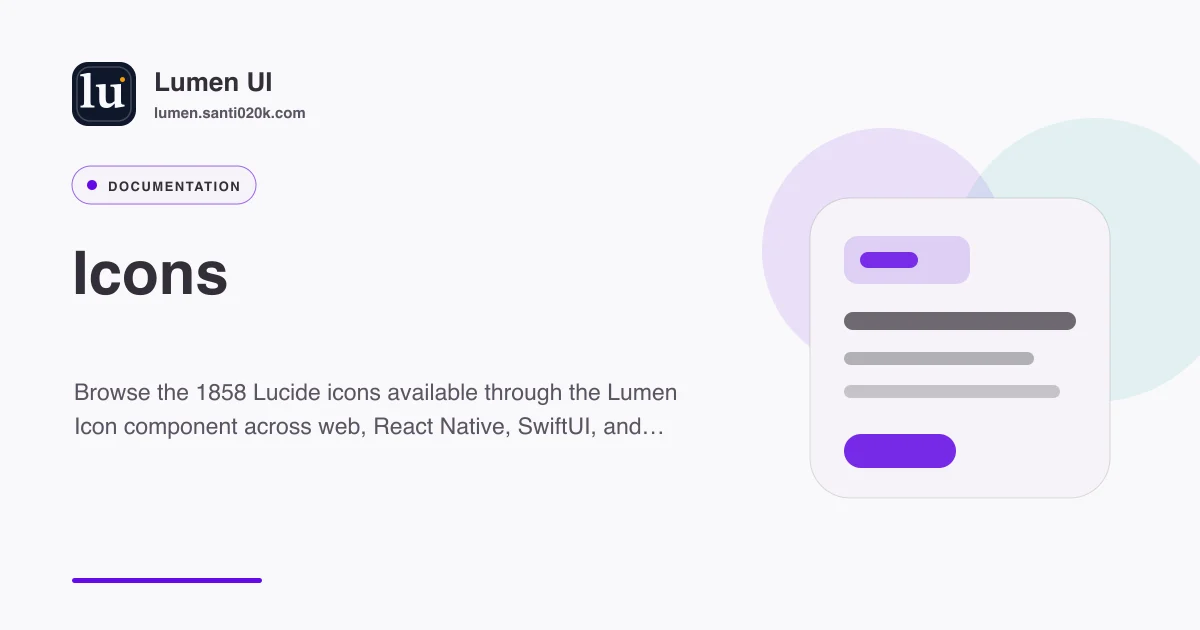
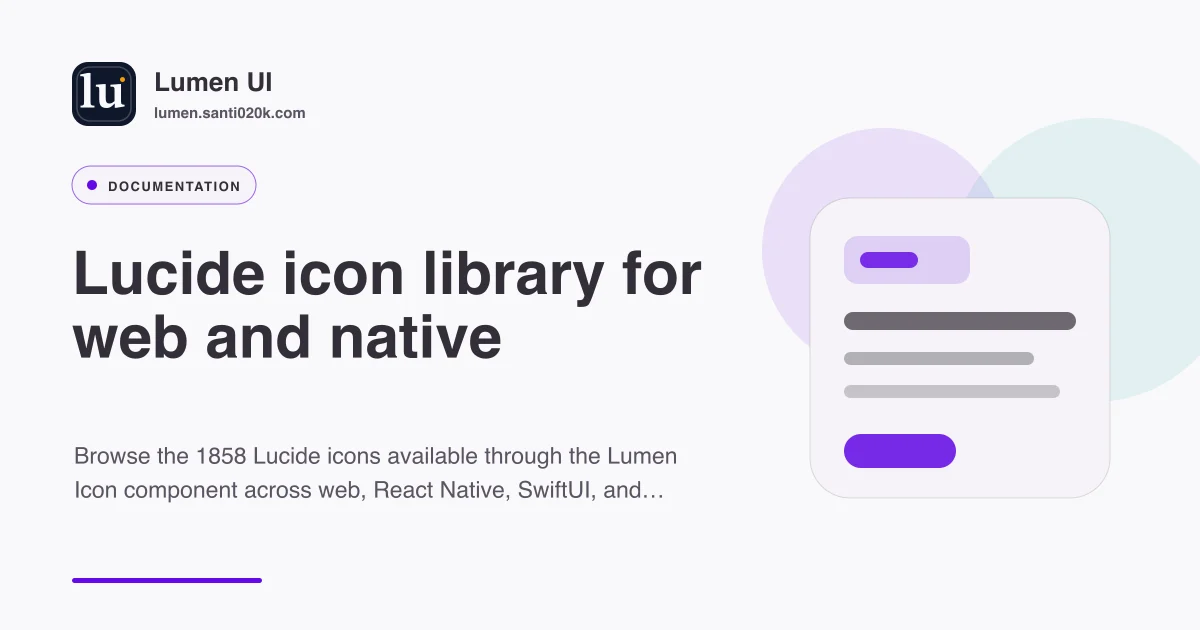
fix(docs): align cloudflare routes with canonical urls

Changed region(s): [[0.0617, 0.3921, 0.5858, 0.573], [0.0617, 0.6635, 0.555, 0.8143], [0.0617, 0.6032, 0.555, 0.6333]]

diff --git a/apps/docs/src/lib/cloudflare-pages.test.ts b/apps/docs/src/lib/cloudflare-pages.test.ts
@@ -1,0 +1,45 @@
+import { mkdir, mkdtemp, readFile, rm, stat, writeFile } from 'node:fs/promises'
+import { tmpdir } from 'node:os'
+import path from 'node:path'
+
+import { expect, test } from 'vitest'
+
+import { prepareCloudflarePages } from '../../scripts/prepare-cloudflare-pages.mjs'
+
+test('packages canonical HTML routes while preserving assets, embedded previews, and audited source', async () => {
+  const root = await mkdtemp(path.join(tmpdir(), 'lumen-pages-'))
+  const source = path.join(root, 'source')
+  const destination = path.join(root, 'output')
+  const html = '<meta name="robots" content="index, follow"><link rel="canonical" href="https://lumen.santi020k.com/docs"><h1>Docs</h1>'
+
+  try {
+    await mkdir(path.join(source, 'docs'), { recursive: true })
+    await mkdir(path.join(source, 'native-previews/live'), { recursive: true })
+    await writeFile(path.join(source, 'docs/index.html'), html)
+    await writeFile(path.join(source, 'docs/data.json'), '{}')
+    await writeFile(path.join(source, 'native-previews/live/index.html'), '<meta name="robots" content="noindex">')
+    await writeFile(path.join(source, 'index.html'), '<link rel="canonical" href="https://lumen.santi020k.com/">')
+    await writeFile(path.join(source, '404.html'), '<meta name="robots" content="noindex">')
+
+    expect(await prepareCloudflarePages({ source, destination })).toBe(1)
+    expect(await readFile(path.join(destination, 'docs.html'), 'utf8')).toBe(html)
+    expect(await readFile(path.join(source, 'docs/index.html'), 'utf8')).toBe(html)
+    expect(await stat(path.join(destination, 'docs/index.html')).then(() => true, () => false)).toBe(false)
+    expect(await readFile(path.join(destination, 'docs/data.json'), 'utf8')).toBe('{}')
+    expect((await stat(path.join(destination, 'native-previews/live/index.html'))).isFile()).toBe(true)
+    expect((await stat(path.join(destination, 'index.html'))).isFile()).toBe(true)
+    expect((await stat(path.join(destination, '404.html'))).isFile()).toBe(true)
+
+    await writeFile(path.join(destination, 'stale.txt'), 'stale')
+    expect(await prepareCloudflarePages({ source, destination })).toBe(1)
+    expect(await stat(path.join(destination, 'stale.txt')).then(() => true, () => false)).toBe(false)
+
+    await writeFile(path.join(source, 'docs/index.html'), html.replace('/docs', '/wrong'))
+    await expect(prepareCloudflarePages({ source, destination })).rejects.toThrow('Canonical URL does not match')
+    expect(await readFile(path.join(destination, 'docs.html'), 'utf8')).toBe(html)
+    await expect(prepareCloudflarePages({ source, destination: source })).rejects.toThrow('separate directories')
+    await expect(prepareCloudflarePages({ source, destination: path.join(source, 'nested') })).rejects.toThrow('separate directories')
+  } finally {
+    await rm(root, { force: true, recursive: true })
+  }
+})

diff --git a/apps/docs/src/pages/guides/rss.xml.ts b/apps/docs/src/pages/guides/rss.xml.ts
@@ -21,12 +21,14 @@ export const GET: APIRoute = ({ site }) => {
   const baseUrl = site ?? new URL('https://lumen.santi020k.com')
 
   const items = publishedGuides.map(guide => {
-    const url = new URL(`${guide.href}/`, baseUrl).toString()
+    const url = new URL(guide.href, baseUrl).toString()
+    // Preserve published feed identities so a canonical link correction does not create new items.
+    const guid = new URL(`${guide.href}/`, baseUrl).toString()
 
     return `<item>
       <title>${escapeXml(guide.title)}</title>
       <link>${escapeXml(url)}</link>
-      <guid isPermaLink="true">${escapeXml(url)}</guid>
+      <guid isPermaLink="true">${escapeXml(guid)}</guid>
       <description>${escapeXml(guide.description)}</description>
       <dc:creator>${escapeXml(guide.author)}</dc:creator>
       <pubDate>${new Date(`${guide.publishedAt}T00:00:00Z`).toUTCString()}</pubDate>
@@ -37,7 +39,7 @@ export const GET: APIRoute = ({ site }) => {
 <rss version="2.0" xmlns:dc="http://purl.org/dc/elements/1.1/">
   <channel>
     <title>Lumen UI Guides</title>
-    <link>${new URL('/guides/', baseUrl)}</link>
+    <link>${new URL('/guides', baseUrl)}</link>
     <description>Practical guides for building accessible web and native product interfaces with Lumen UI.</description>
     <language>en</language>
     ${items}

diff --git a/docs/marketing/MEASUREMENT.md b/docs/marketing/MEASUREMENT.md
@@ -55,6 +55,31 @@ search demand or conversion gains.
 
 ## Review log
 
+### Search Console baseline: October 6, 2026
+
+Read from the authenticated `lumen.santi020k.com` domain property. The selected three-month
+performance report displayed July 26–October 4, 2026: 20 clicks, approximately 2,000 impressions,
+1% CTR, and average position 26.7. These are the report's displayed totals; anonymized queries mean
+visible query rows do not sum to them.
+
+The icons landing page had 317 impressions, one click, 0.3% CTR, and average position 7.3. Its
+generic `Icons` title is being replaced with an accurate Lucide/web/native title. The visible query
+sample is too small to justify a broader keyword strategy or predict a CTR improvement. Compare
+matched 28-day periods after deployment, keeping the deployment date separate from this local review.
+
+The indexing report was last updated September 20: 597 indexed URLs and 288 excluded URLs
+(171 redirects, 77 noindex, 36 alternate canonicals, one 404, and three crawled URLs not indexed).
+These are known URLs, including historical variants, rather than a count of current sitemap pages.
+The 404 example was `/cdn-cgi/l/email-protection`. The three crawled URLs not indexed were
+two parameterized embedded React Native previews and `/guides/rss.xml`; they do not need search
+listings. Explicit noindex headers reinforce the preview's existing HTML policy and exclude the feed.
+
+Priorities: deploy the canonical-aligned Cloudflare artifact through the existing release workflow,
+verify the live sitemap and representative canonical URLs return 200 without redirects, then compare
+search performance for icons, AI skill, and framework guides. New AI guides are present locally but
+were absent from production during this review. Do not interpret local audits as indexing or deployment
+evidence, remove intended noindex exclusions, or request validation before the fix is deployed.
+
 | Month | Reviewer | Key numbers | Decision |
 | --- | --- | --- | --- |
 | _(none yet — no cycle has been approved or published)_ | — | — | — |

diff --git a/CONTRIBUTING.md b/CONTRIBUTING.md
@@ -185,6 +185,11 @@ so they are excluded from site-navigation validation. Run
 `pnpm --filter @santi020k/lumen-docs run audit:seo` against the current build when changing navigation
 or search data. The same audit checks sitemap coverage and excludes internal/noindex pages.
 
+Keep docs routes without a file extension or trailing slash (except `/`). The docs post-build step
+packages validated Astro output from `dist` into `cloudflare/dist`, using flat HTML files so
+Cloudflare Pages serves canonical URLs directly. Deploy that artifact; raw directory output redirects
+to trailing-slash URLs. Keep navigation, sitemap, structured data, and RSS links consistent.
+
 Do not publish generic announcements as guides. A guide should leave a developer able to build or
 verify something they could not confidently complete before reading it.
 
